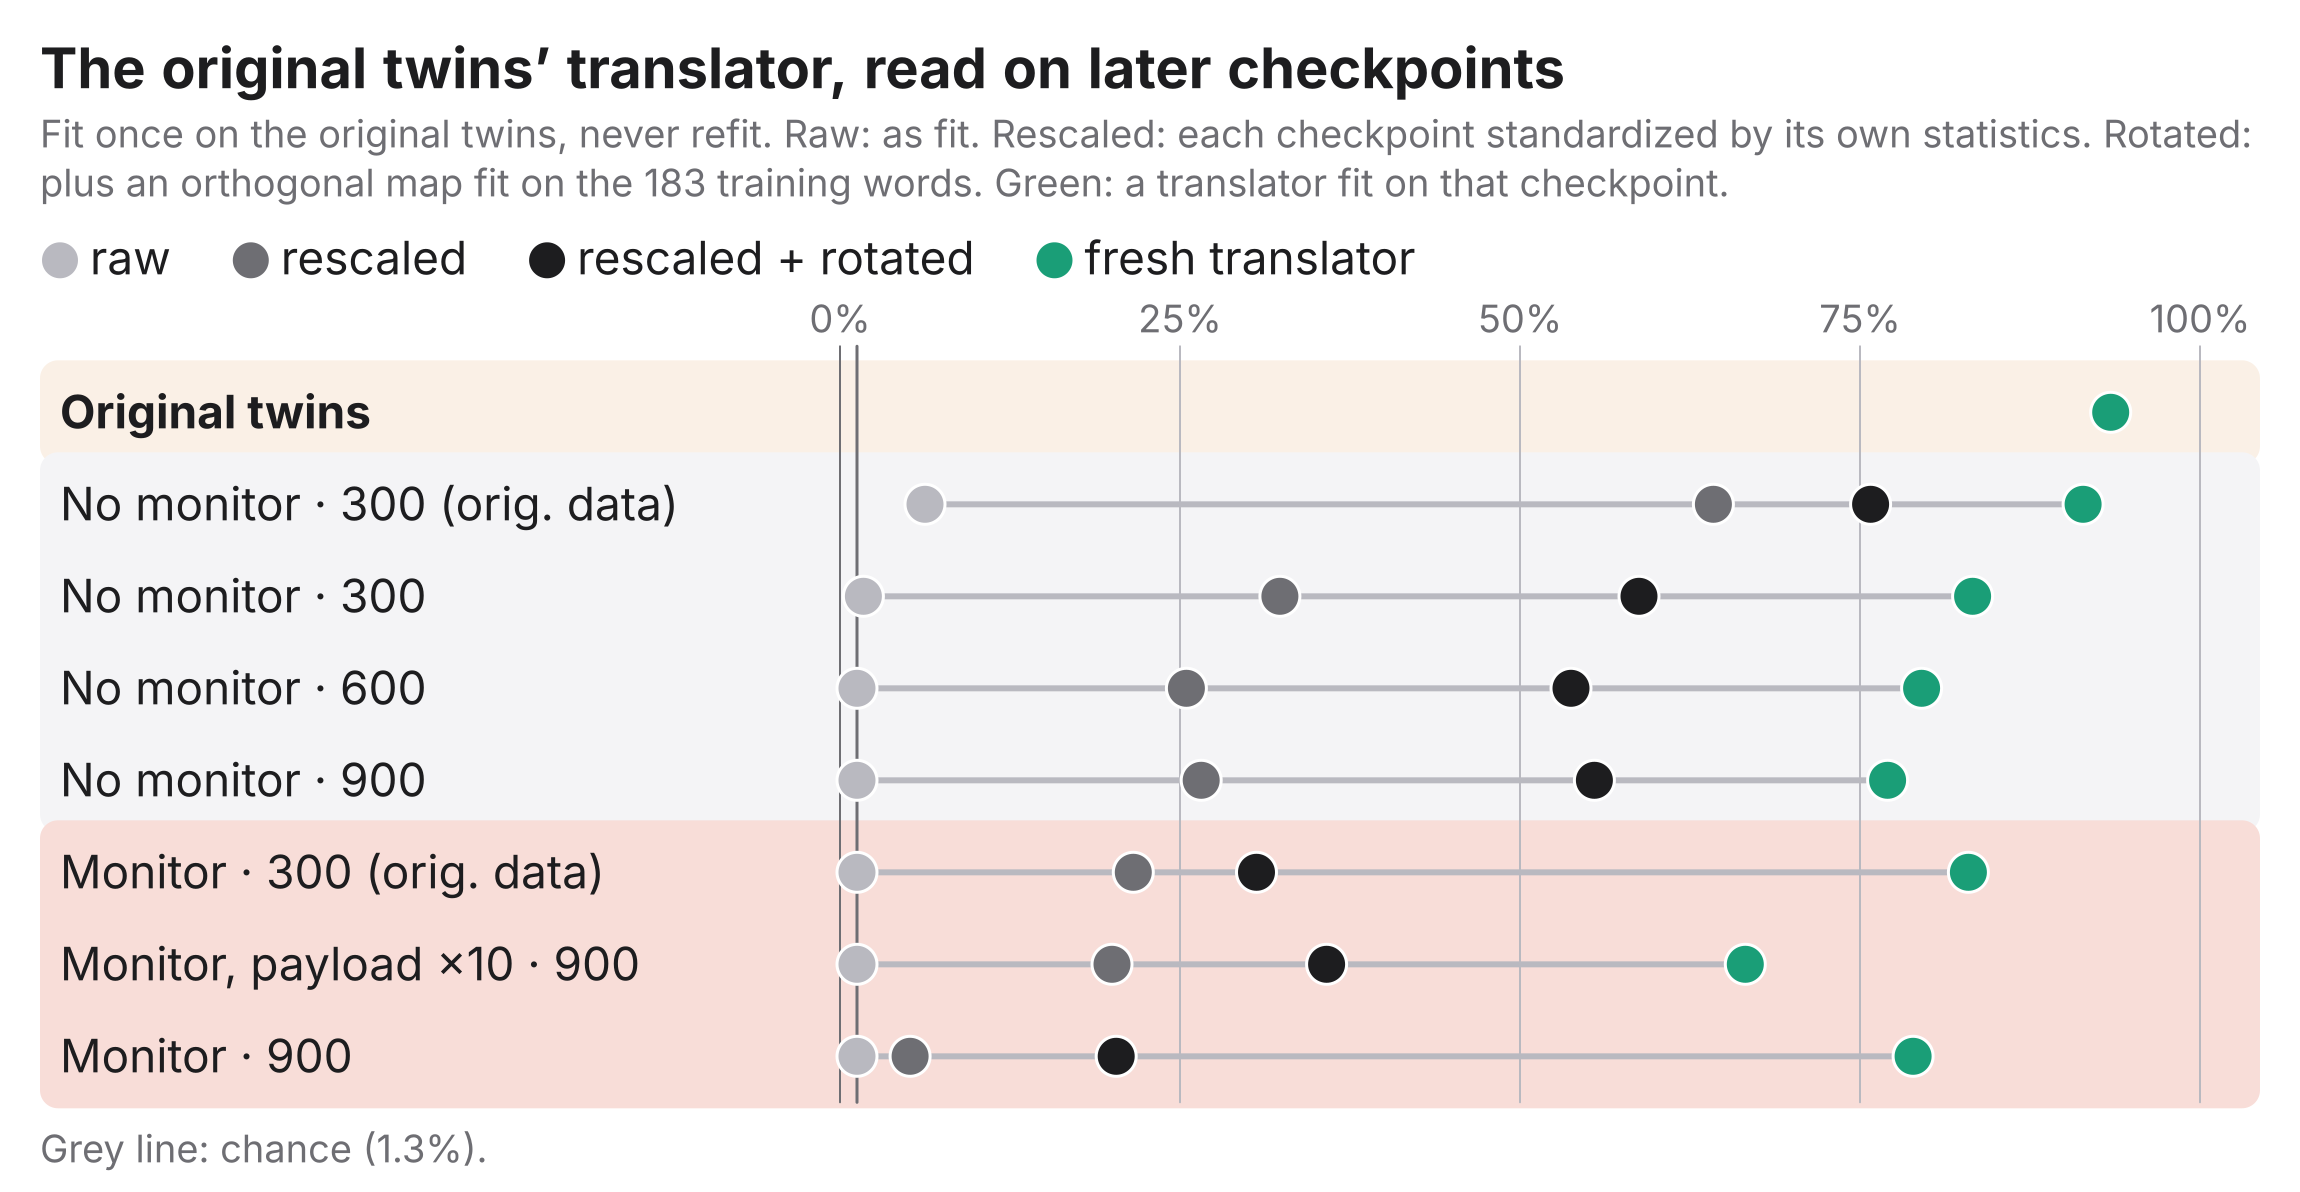
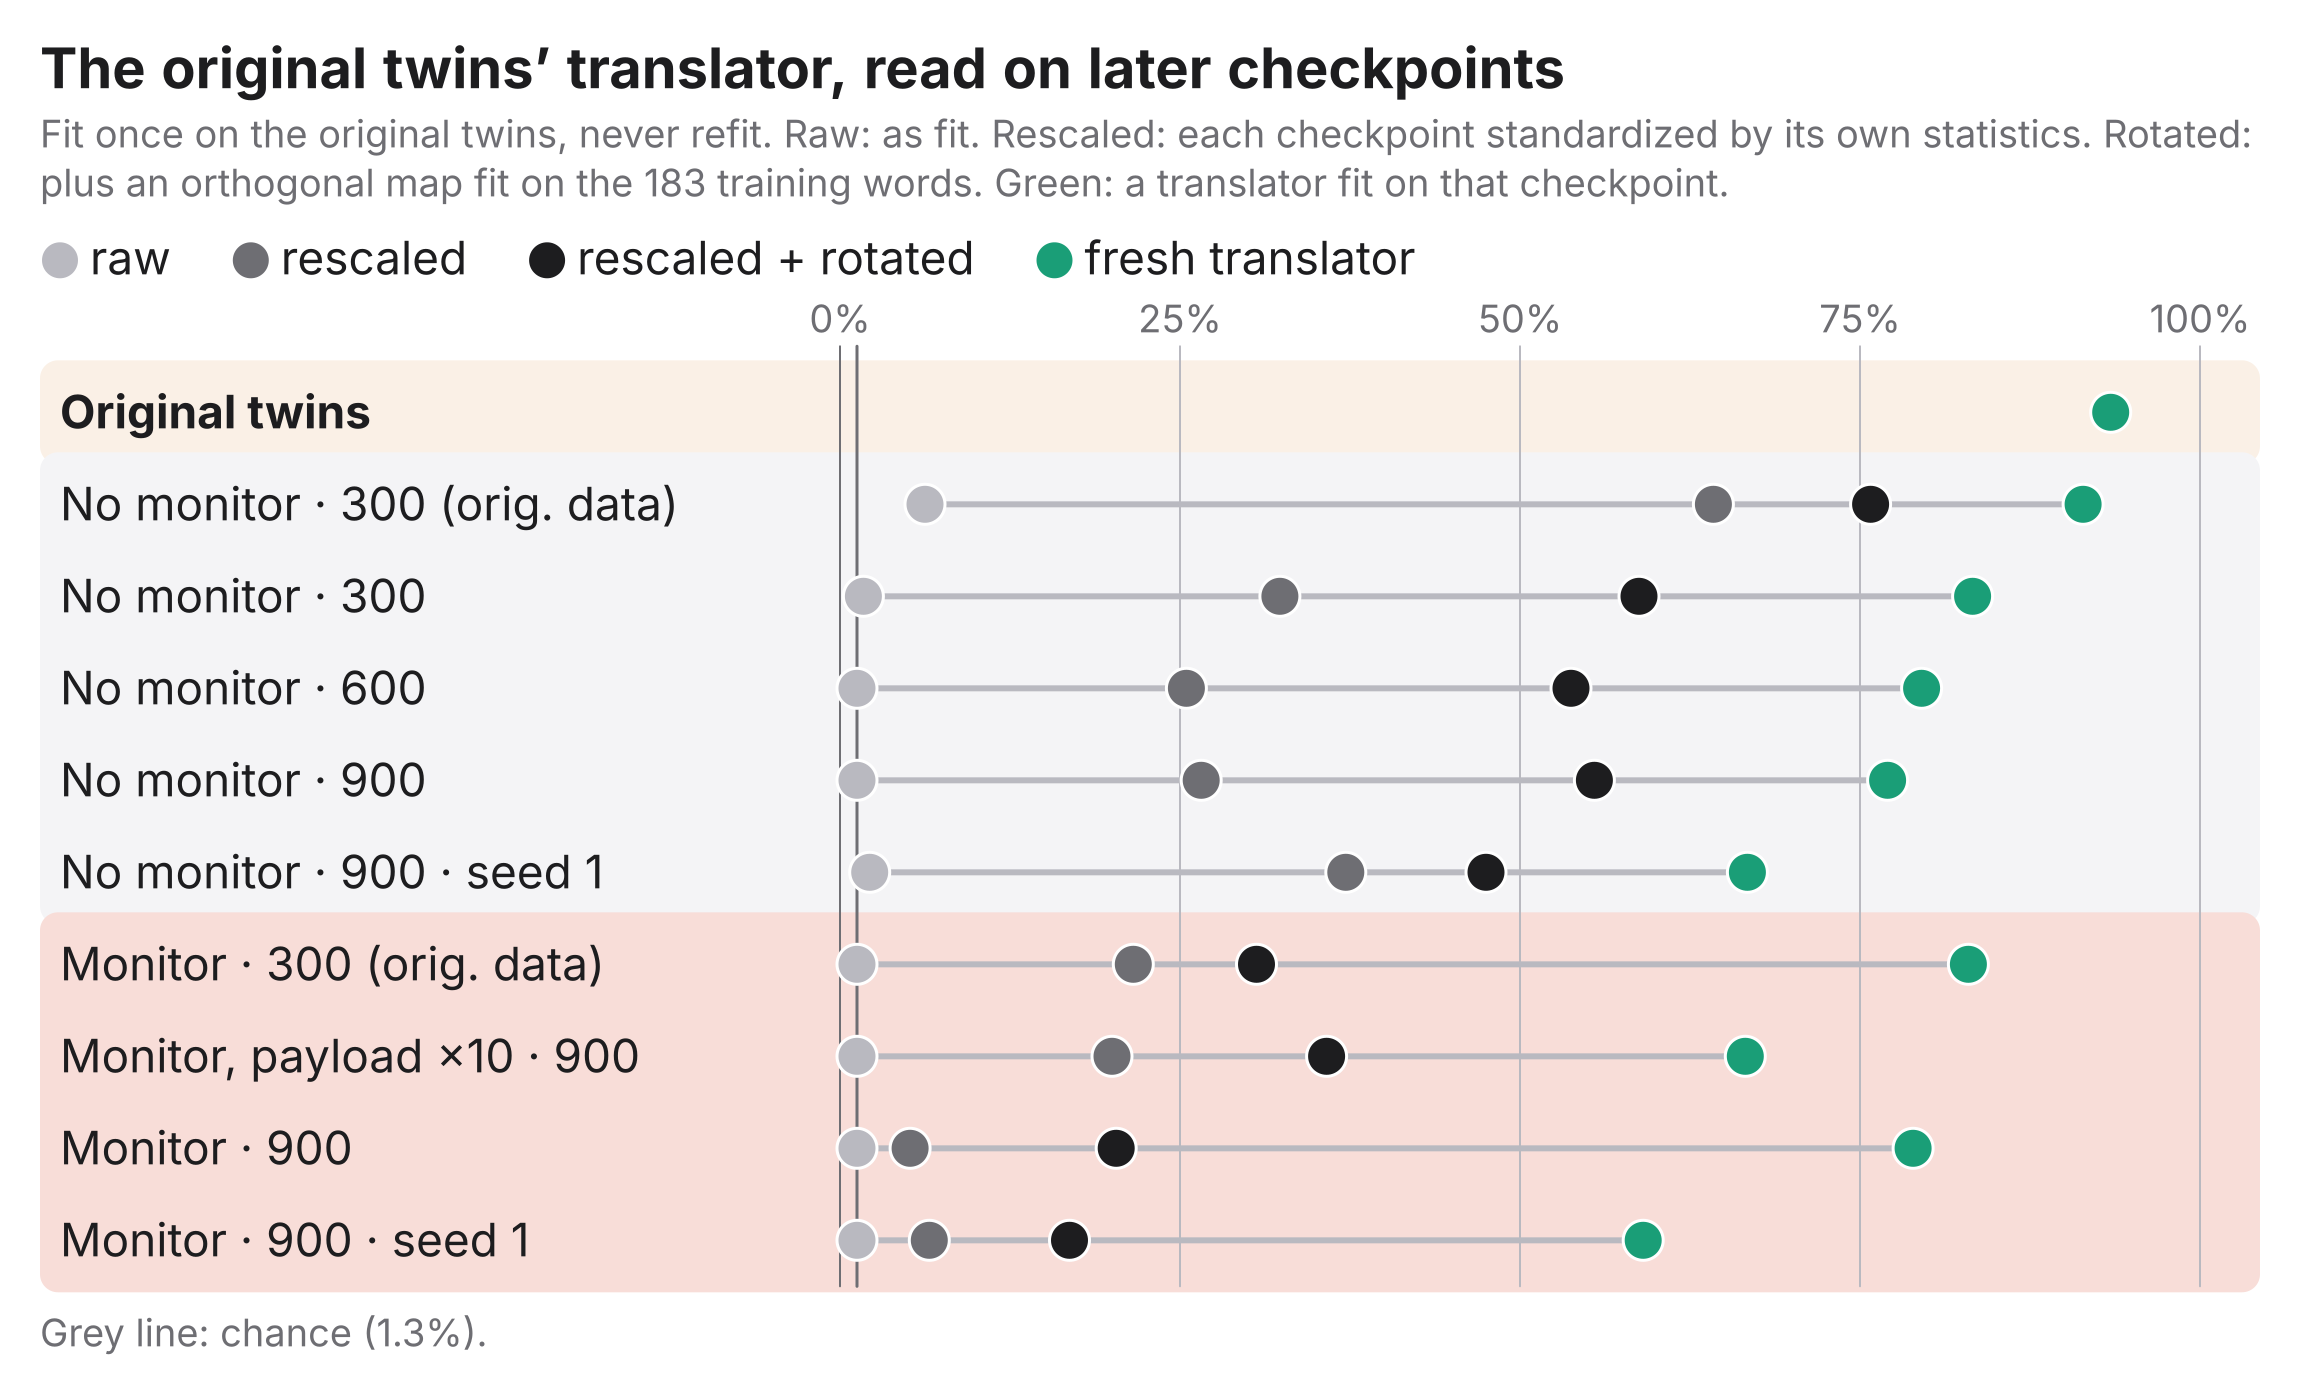
paper: second seed at 900 steps with and without a monitor; drift holds (rescaled 27/37% vs 5/7%, rotated 55/47% vs 20/17%); wire table and ranges updated

diff --git a/paper/README.md b/paper/README.md
@@ -30,7 +30,7 @@ a probe monitor that the twins are penalized for triggering.
 4. **Training against a monitor doesn't hide the content; it moves it.** The channel squeezes into the one or two
    layers the monitor doesn't read, and the payload narrows to the one trained secret. Both make it *easier* to find.
 5. **Written is not read.** After further training Quill stops using the code word, but the link still carries it:
-   a fresh translator still reads 56–93%. Content on the wire is not proof of communication.
+   a fresh translator still reads 59–93%. Content on the wire is not proof of communication.
 6. **A fixed translator goes partly stale, and staler under a monitor.** But a refit translator works on every
    checkpoint. Neuralese drifts away from a *fixed* reader. It doesn't become unreadable.
 7. **Told they are watched, the twins send less; told the link may be altered, they don't.** On the original twins
@@ -133,19 +133,21 @@ Every later checkpoint, with or without a monitor, stops passing the code word. 
 cities, and further training lets the untrained payload go. On the receiving end it is gone: Quill's own pick among
 the 80 words falls from 97% to 1–9%, and the information the word carries into Quill's next-token distribution falls
 from 0.64 to below 0.01. **On the wire it is still there.** A translator fit on each checkpoint reads the word from the
-link's input to Quill at 56–93% (chance 1.3%):
+link's input to Quill at 59–93% (chance 1.3%):
 
 | checkpoint | information into Quill | Quill's own pick | translator on the link |
 |---|---|---|---|
 | original twins | 0.64 | 97% | 93% |
 | no monitor, 300 steps (original data) | 0.04 | 30% | 91% |
 | no monitor, 900 steps | 0.001 | 2% | 77% |
+| no monitor, 900 steps, seed 1 | 0.002 | 2% | 67% |
 | against a monitor, 300 steps (original data) | 0.000 | 1% | 83% |
 | against a monitor, payload ×10, 900 steps | 0.000 | 1% | 67% |
 | against a monitor, 900 steps (collapsed) | 0.000 | 1% | 79% |
+| against a monitor, 900 steps, seed 1 (collapsed) | 0.000 | 1% | 59% |
 
-The last row is the most striking. In that run the twins shut the channel entirely, and the city no longer crosses.
-Yet the link's input to Quill still names the code word 79% of the time.
+The last two rows are the most striking. In those runs the twins shut the channel entirely, and the city no longer crosses.
+Yet the link's input to Quill still names the code word 79% and 59% of the time.
 
 How can the word be on the wire and not get through? The link's write into Quill is a learned projection of Ember's
 hidden states, and those states contain the word. Training only shapes how the *receiver* uses the write, and how big
@@ -167,11 +169,12 @@ For anyone monitoring a channel between models, this matters in both directions:
 
 An auditor who fits a translator once and keeps using it would see it break: raw, the original translator reads 1–4% on
 later checkpoints. **Most of that is scale.** The gates changed, and the translator standardizes by the original's
-statistics. Rescaling each checkpoint by its own statistics restores 20–64%. A rotation fit on the 183 training words
-(the auditor's labelled examples) restores 20–76%.
+statistics. Rescaling each checkpoint by its own statistics restores 5–64%. A rotation fit on the 183 training words
+(the auditor's labelled examples) restores 17–76%.
 
-What remains is real drift, and it is larger under a monitor. Same regime, 900 steps: **27% without a monitor, 5% with
-one** (rescaled), or 55% vs 20% (rotated). Without a monitor the drift happens within 300 steps and then levels off.
+What remains is real drift, and it is larger under a monitor. Same regime, 900 steps, two seeds each: **27% and 37% without a
+monitor, 5% and 7% with one** (rescaled), or 55% and 47% vs 20% and 17% (rotated). The seeds differ by up to 10 points;
+the gap between regimes is larger than that in every comparison. Without a monitor the drift happens within 300 steps and then levels off.
 
 So: **neuralese drifts away from a fixed reader on its own, and more when trained against a monitor**, while a
 translator refit on each checkpoint (green) keeps working. It drifts; it doesn't become illegible.
@@ -254,7 +257,7 @@ saturated answers. Both are retracted.
 - One pair of models and one link architecture, which reads the partner's states through cross-attention, so part of
   the channel "describes itself". The translator reads a planted, one-token code word at a known position; free-form
   neuralese is harder.
-- Drift: one seed per cell in the table above. The no-monitor runs also freed the gates and trained on city chats.
+- Drift: two seeds at 900 steps with and without a monitor; one seed for the other checkpoints. The no-monitor runs also freed the gates and trained on city chats.
 - Retracted along the way:
   - "link presence is trivially detectable" (an artifact of frozen gates);
   - "you can hide the channel but not its use" (a stranger partner is flagged identically);
